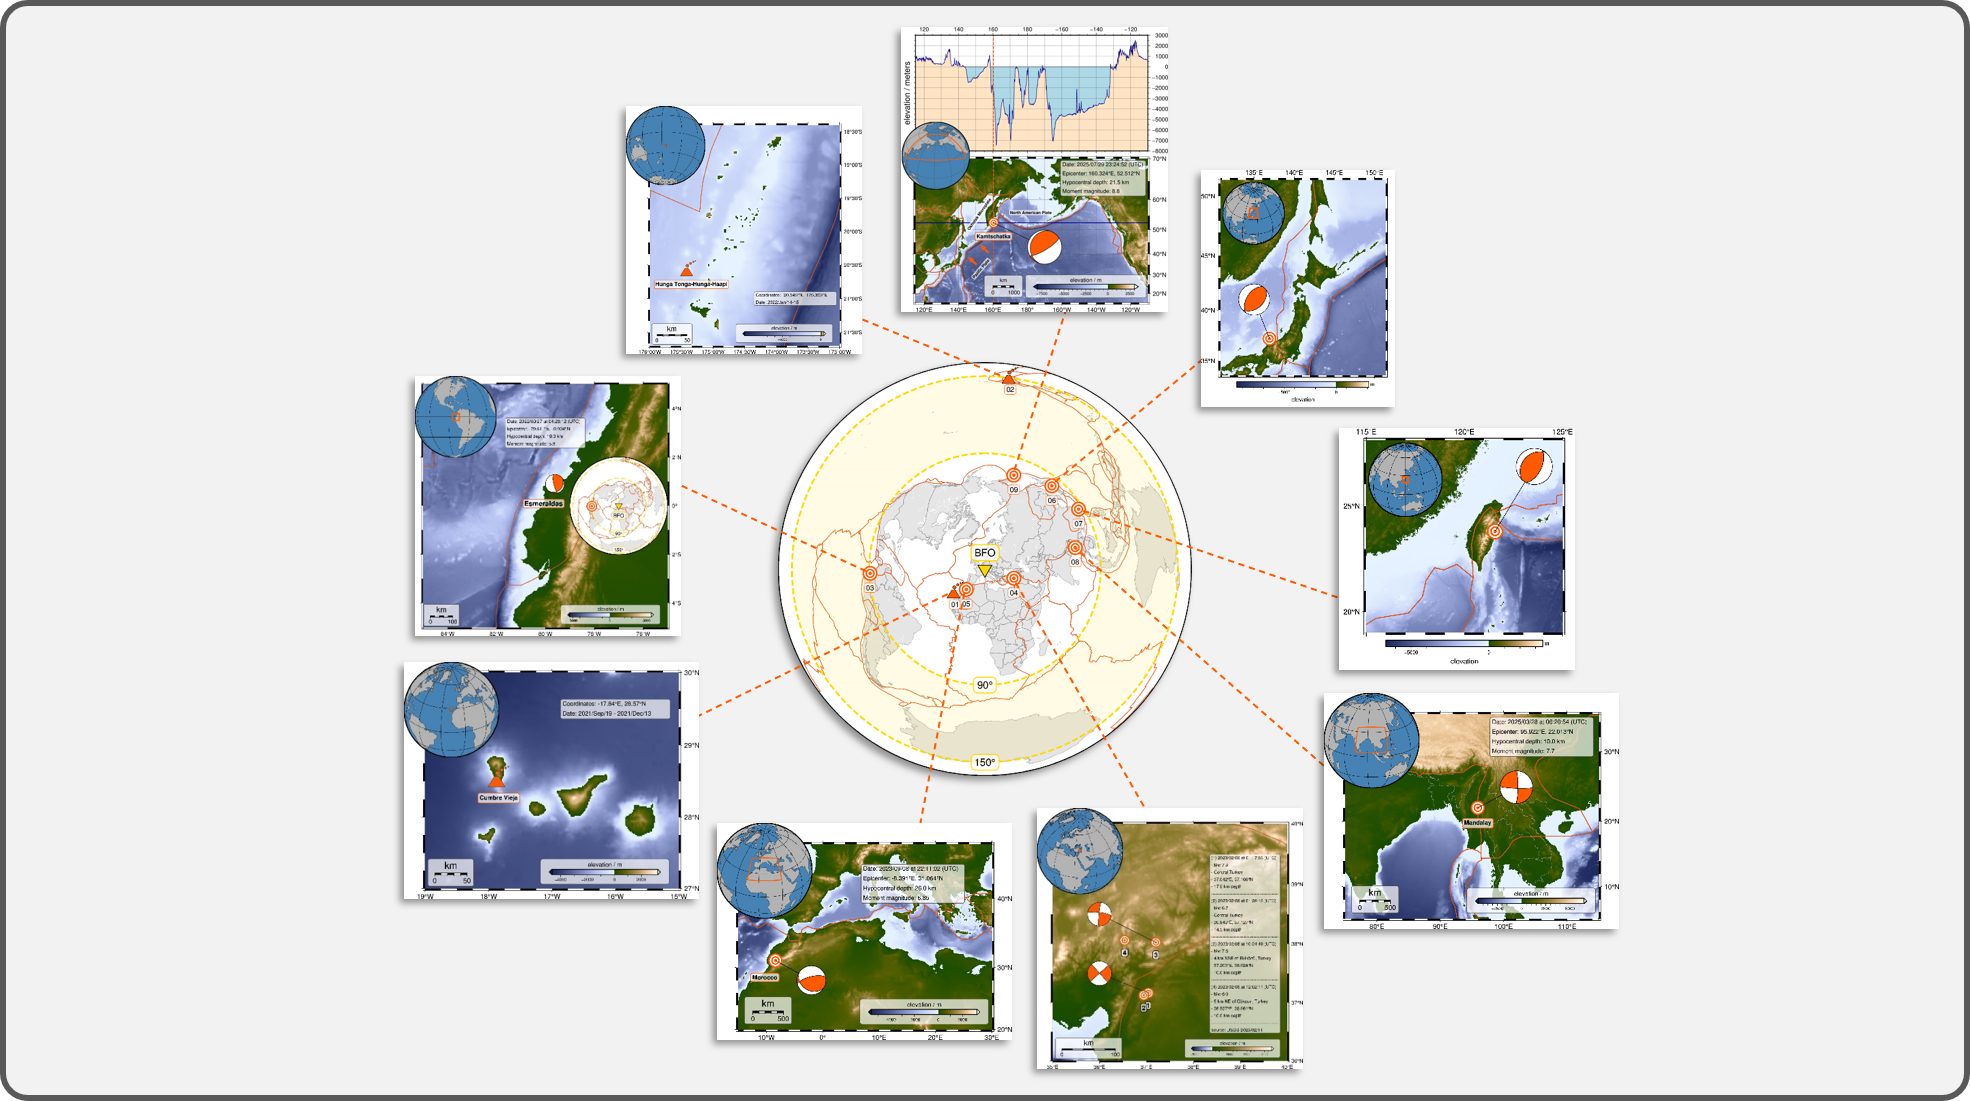
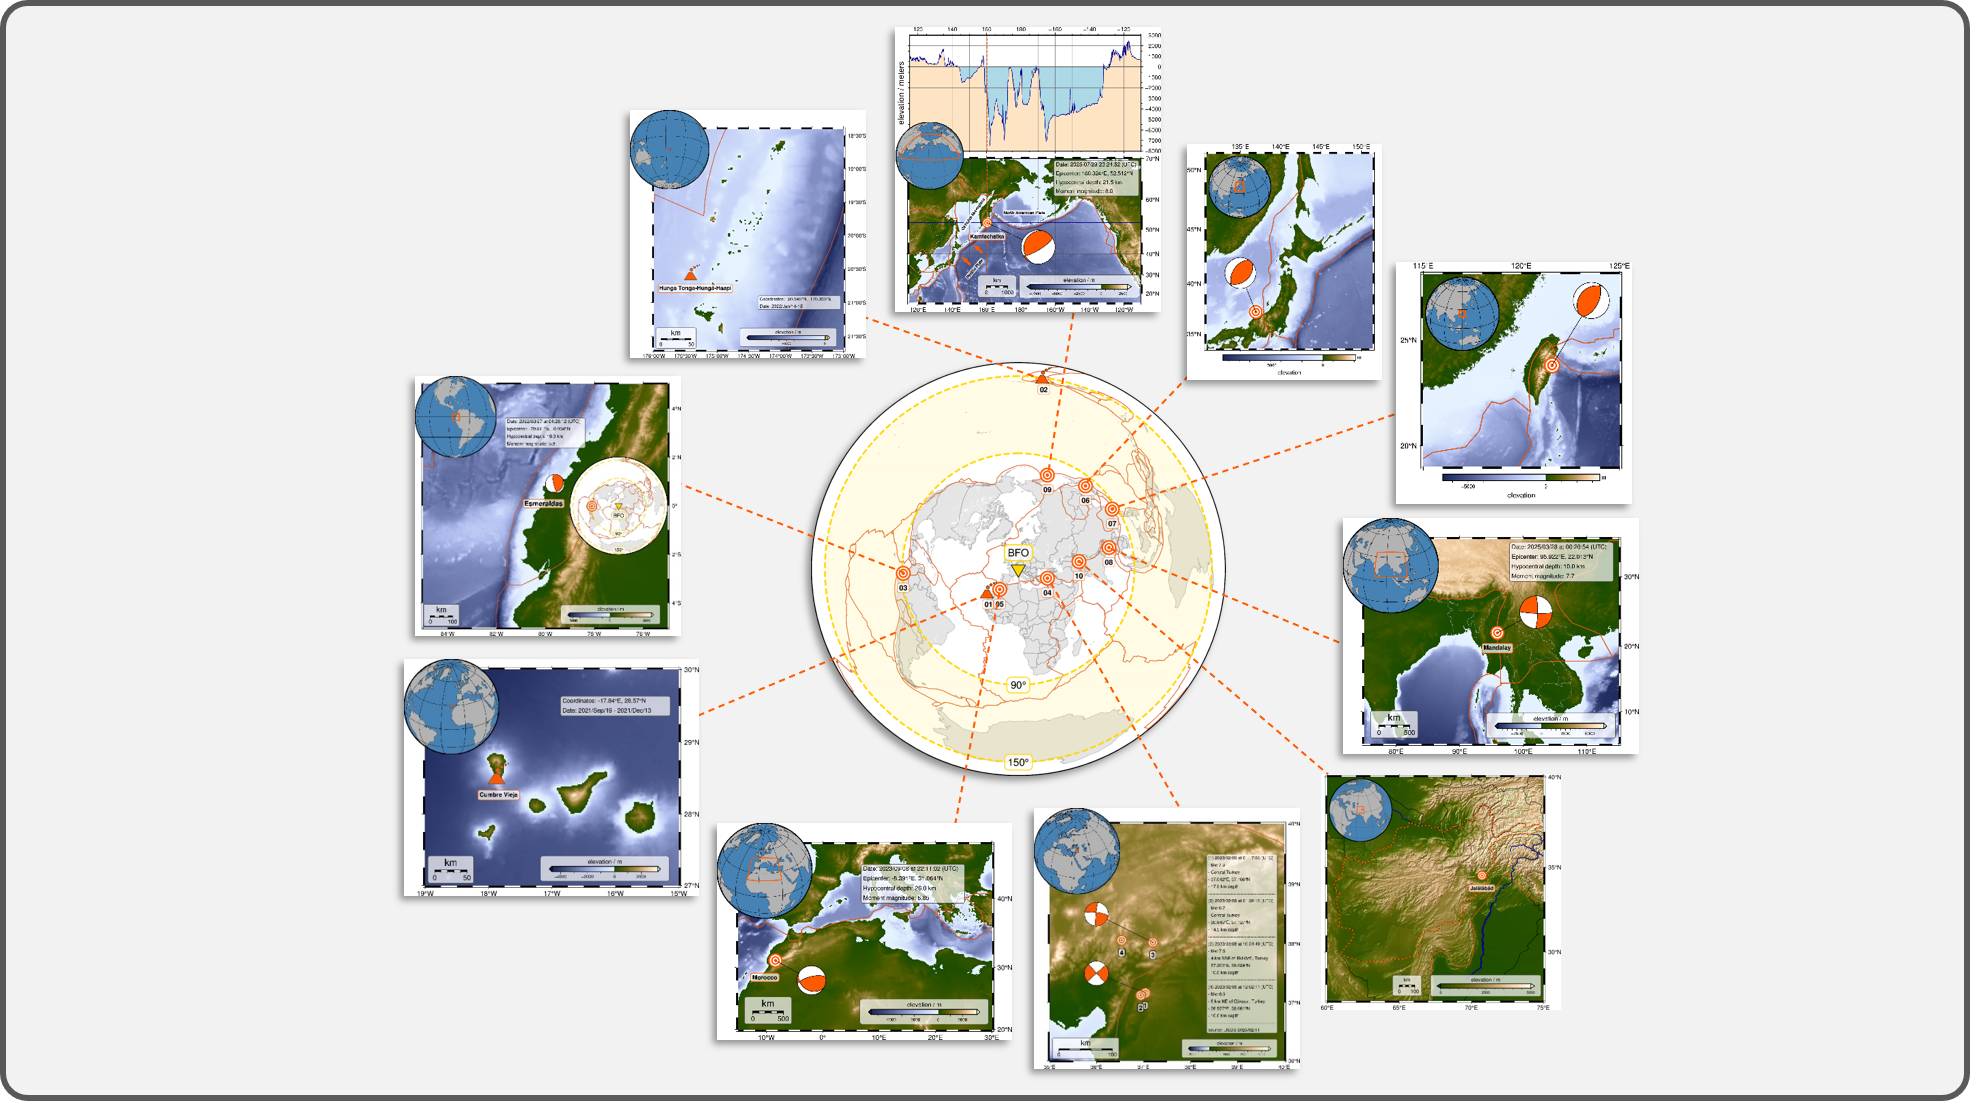
Update overview images

Changed region(s): [[0.3096, 0.0309, 0.836, 0.9882], [0.1858, 0.5867, 0.3716, 0.8338]]

diff --git a/004_earthquakes_eruptions/00_overview_events_BFO.py b/004_earthquakes_eruptions/00_overview_events_BFO.py
@@ -55,6 +55,7 @@ df_events = pd.DataFrame(
             "earthquake",
             "earthquake",
             "earthquake",
+            "earthquake",
         ],
         "location": [
             "La Palma",
@@ -66,6 +67,7 @@ df_events = pd.DataFrame(
             "Taiwan",
             "Myanmar",
             "Kamtschatka",
+            "Afghanistan",
         ],
         "date": [
             "2021/09/19-2021/12/13",
@@ -77,10 +79,15 @@ df_events = pd.DataFrame(
             "2024/04/02",
             "2025/03/28",
             "2025/07/30",
+            "2025/08/31",
         ],
-        "lon": [-17.84, -175.393, -79.611, 37.042, -8.391, 136.91, 121.562, 95.92, 160.324],
-        "lat": [28.57, -20.545, -0.904, 37.166, 31.064, 37.23, 23.819, 22.01, 52.512],
-        "event_id": ["01", "02", "03", "04", "05", "06", "07", "08", "09"],
+        "lon": [
+            -17.84, -175.393, -79.611, 37.042, -8.391, 136.91, 121.562, 95.92, 160.324, 70.734
+        ],
+        "lat": [
+            28.57, -20.545, -0.904, 37.166, 31.064, 37.23, 23.819, 22.01, 52.512, 34.519
+        ],
+        "event_id": ["01", "02", "03", "04", "05", "06", "07", "08", "09", "10"],
     }
 )
 

diff --git a/004_earthquakes_eruptions/README.md b/004_earthquakes_eruptions/README.md
@@ -17,5 +17,6 @@ _Recommended versions_: PyGMT v0.11.0-v0.16.0, GMT 6.4.0-6.5.0
 | [07_taiwan_earthquake_BFO.py](https://github.com/yvonnefroehlich/gmt-pygmt-plotting/blob/main/004_earthquakes_eruptions/07_taiwan_earthquake_BFO.py)      | Taiwan                | 2024/04/02 at 23:58 (UTC)                  | <img src="https://github.com/yvonnefroehlich/gmt-pygmt-plotting/raw/main/004_earthquakes_eruptions/02_out_figs/07_taiwan_earthquake_BFO.png" width="60">   |
 | [08_myanmar_earthquake.py](https://github.com/yvonnefroehlich/gmt-pygmt-plotting/blob/main/004_earthquakes_eruptions/08_myanmar_earthquake.py)            | Myanmar               | 2025/03/28 at 06:20:54 (UTC)               | <img src="https://github.com/yvonnefroehlich/gmt-pygmt-plotting/raw/main/004_earthquakes_eruptions/02_out_figs/08_myanmar_earthquake.png" width="60">      |
 | [09_kamtschatka_earthquake.py](https://github.com/yvonnefroehlich/gmt-pygmt-plotting/blob/main/004_earthquakes_eruptions/09_kamtschatka_earthquake.py)    | Kamtschatka           | 2025/07/29-30 at 23:24:52 (UTC)            | <img src="https://github.com/yvonnefroehlich/gmt-pygmt-plotting/raw/main/004_earthquakes_eruptions/02_out_figs/09_kamtschatka_earthquake.png" width="60">  |
+| [10_afghanistan_earthquake.py](https://github.com/yvonnefroehlich/gmt-pygmt-plotting/blob/main/004_earthquakes_eruptions/10_afghanistan_earthquake.py)    | Afghanistan           | 2025/08/31 at 19:17:34 (UTC)               | <img src="https://github.com/yvonnefroehlich/gmt-pygmt-plotting/raw/main/004_earthquakes_eruptions/02_out_figs/10_afghanistan_earthquake.png" width="60">  |
 
 ![](https://github.com/yvonnefroehlich/gmt-pygmt-plotting/raw/main/_images/github_maps_readme_004events.png)
